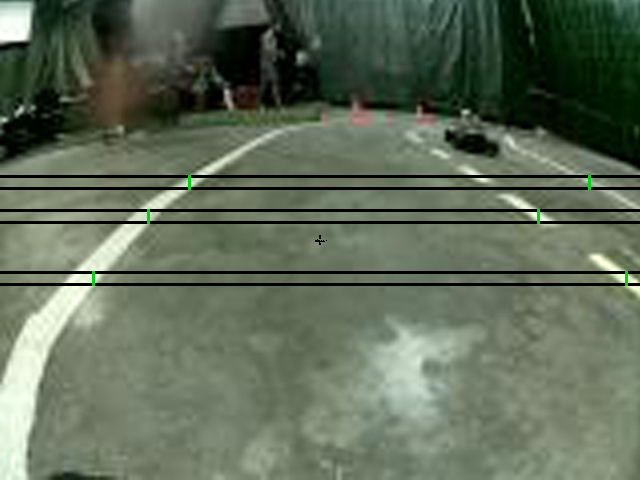
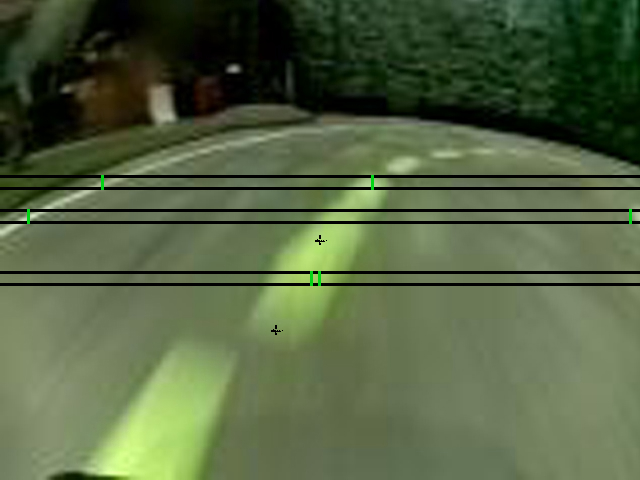
v1.0.9 Moving code

diff --git a/tank-pi/sites/tracktest/routes/prototypes.js b/tank-pi/sites/tracktest/routes/prototypes.js
@@ -1,6 +1,7 @@
 var config =      require('./config');
 var debug =       require('debug')('prototypes:');
 var Jimp =        require('jimp');
+var logistics =   require('./logistics');
 
 /*
 ** Most of these are prototype add-ons to the existing Jimp module.
@@ -35,6 +36,27 @@ var Jimp =        require('jimp');
       });
     } catch(err) {console.error('markCenter() Jimp.read() -> catch(): ' + err)};
   }; // markCenter()
+
+  Jimp.prototype.markDirection = function(cb) {
+    try {
+      Jimp.read('./public/images/center-mark-mask.jpg', (errRead, imgMask) => {
+        if (errRead) console.error('Jimp.read(): ' + errRead);
+        var radiansTrend =    logistics.trend * Math.PI / 180.0;
+        var midX =            parseInt((this.bitmap.width / 2) +  (config.trendLineLength * Math.cos(radiansTrend * config.trendAngleMultiplier)));
+        var midY =            parseInt((this.bitmap.height / 2) + (-1 * config.trendLineLength * Math.sin(radiansTrend * config.trendAngleMultiplier)));
+        logistics.direction = 90 - parseInt((radiansTrend * config.trendAngleMultiplier) * 180.0 / Math.PI);
+        debug('radiansTrend: ' + radiansTrend);
+        debug('cos: ' + (config.trendLineLength * Math.cos(radiansTrend * config.trendAngleMultiplier)));
+        debug('sin: ' + (-1 * config.trendLineLength * Math.sin(radiansTrend * config.trendAngleMultiplier)));
+        debug('midX: ' + midX + ', midY: ' + midY);
+        debug('direction: ' + logistics.direction + ' degrees from centerline');
+        this.mask(imgMask, midX - parseInt(imgMask.bitmap.width / 2), midY - parseInt(imgMask.bitmap.height / 2), function(errMask, imgMasked) {
+          if (errMask) console.error('this.mask(): ' + errMask);
+          cb(null, imgMasked);
+        })
+      });
+    } catch(err) {console.error('markDirection() Jimp.read() -> catch(): ' + err)};
+  }; // markDirection()
 
   Jimp.prototype.markSample = function(x, y, cb) {
     var colorTest =   undefined;

diff --git a/tank-pi/sites/tracktest/routes/config.js b/tank-pi/sites/tracktest/routes/config.js
@@ -1,8 +1,11 @@
-exports.title =           'Autonomous Tank - tracktest';
-exports.tankURL =         'http://tank.local:8080/?action=snapshot';
-exports.fileNoImage =     './public/images/no-image.jpg';
-exports.fileFindEdges =   './public/images/find-edges.jpg';
-exports.fileSnapshot =    './public/images/snapshot.jpg';
-exports.fileCropMidway =  './public/images/crop-midway.jpg';
-exports.colorTarget =     'dce6ce'; // color of the lane marker masking tape, as seen by the target webcam at the lighting sampled
-exports.colorThreshold =  75;
+exports.title =                 'Autonomous Tank - tracktest';
+exports.tankURL =               'http://tank.local:8080/?action=snapshot';
+exports.fileNoImage =           './public/images/no-image.jpg';
+exports.fileFindEdges =         './public/images/find-edges.jpg';
+exports.fileSnapshot =          './public/images/snapshot.jpg';
+exports.fileCropMidway =        './public/images/crop-midway.jpg';
+exports.colorTarget =           'dce6ce'; // color of the lane marker masking tape, as seen by the target webcam at the lighting sampled
+exports.colorThreshold =        75;
+exports.trendLineLength =       100;
+exports.trendAngleMultiplier =  1.5;
+

diff --git a/tank-pi/sites/tracktest/routes/wrappers.js b/tank-pi/sites/tracktest/routes/wrappers.js
@@ -75,6 +75,12 @@ exports.markThirdSample = function(img, callback) {
   });
 } // markThirdSample()
 
+exports.markDirection = function(imgRaw, callback) {
+  imgRaw.markDirection(function(err, image) {
+    callback(null, image);
+  });
+} // markDirection()
+
 exports.writeOutput = function(img, callback) {
   img.write(config.fileFindEdges, function(err) {
     if (err) {console.error('writeOutput(): ' + err); callback(err); return;}

diff --git a/tank-pi/sites/tracktest/routes/index.js b/tank-pi/sites/tracktest/routes/index.js
@@ -13,6 +13,7 @@ router.get('/', function(req, res, next) {
     wrappers.markFirstSample,
     wrappers.markSecondSample,
     wrappers.markThirdSample,
+    wrappers.markDirection,
     wrappers.writeOutput
     ], function(errWaterfall, result) {
       if (errWaterfall) {console.error('Waterfall returned err: ', errWaterfall);}

diff --git a/tank-pi/sites/tracktest/routes/logistics.js b/tank-pi/sites/tracktest/routes/logistics.js
@@ -15,3 +15,4 @@ exports.rightFirstSlopeSegment =  undefined;
 exports.rightSecondSlopeSegment = undefined;
 exports.rightDiff =               undefined;
 exports.trend =                   undefined;
+exports.direction =               undefined;
